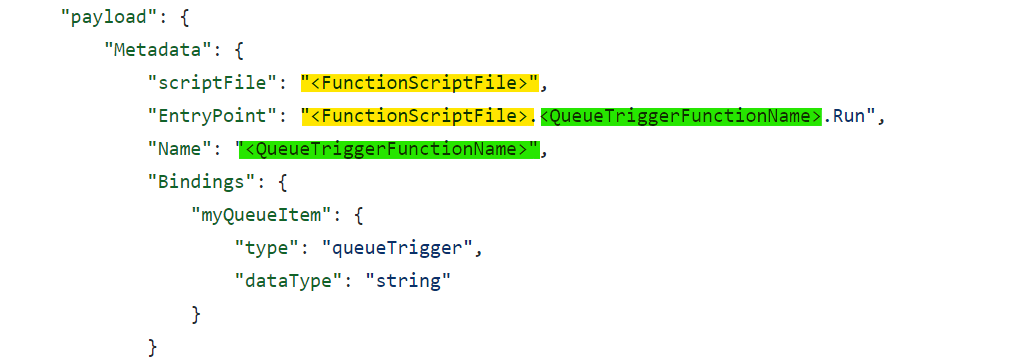
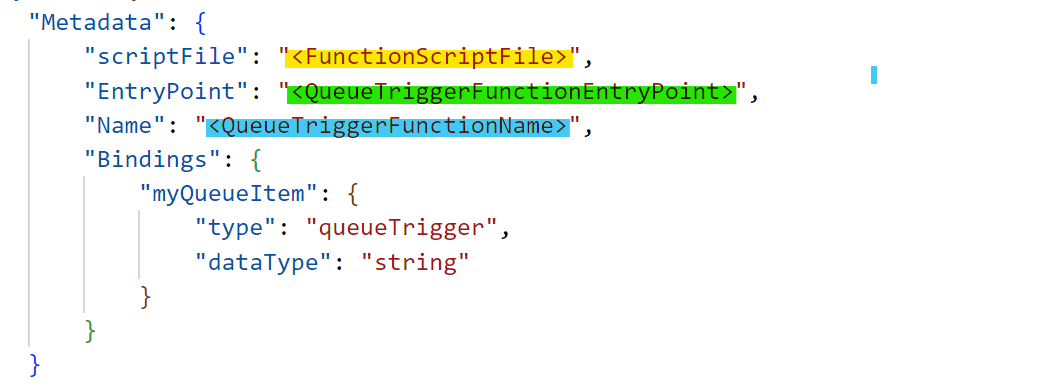
update README.md

diff --git a/tools/WorkerHarness/README.md b/tools/WorkerHarness/README.md
@@ -36,16 +36,26 @@ This folder contains:
 
 ## Update queueload.json
 - Go into the queueTrigger folder and open the file "queueload.json"
-- Replace `<FunctionScriptFile>` with the name of the function `scriptFile`. For instance, if a C# Function App has a name "TestApp", then replace `<FunctionScriptFile>` with "TestApp.dll".
-- Replace `<QueueTriggerFunctionName>` with the name of the function `name`. For instance, if a queue-trigger function has a name "QueueTrigger", then replace `<FunctionScriptFile>` with "QueueTrigger".
+- Replace `<FunctionScriptFile>` with the `scriptFile` of your function app. 
+    - C#: replace `<FunctionScriptFile>` with "TestApp.dll" if your function app has a name "TestApp". 
+    - Java: replace `<FunctionScriptFile>` with `path\to\function-folder\\target\\azure-functions\\artifactID\\appname-version.jar`
+    - Python: replace `<FunctionScriptFile>` with `functionname\__init__.py`
+    - Nodejs: replace `<FunctionScriptFile>` with `path\to\function-folder\functioname\index.js`
+- Replace `<QueueTriggerFunctionName>` with the name of the function. For instance, if a queue-trigger function has a name "QueueTrigger", then replace `<FunctionScriptFile>` with "QueueTrigger".
+- Replace `<QueueTriggerFunctionEntryPoint>` with the entry point of your function.
+    - C#: replace it with `TestApp.QueueTrigger.Run` if TestApp is the function app's name, and QueueTrigger is the function's name.
+    - Java: replace it with `com.function.QueueFunction.run` if com.function is the group ID, and QueueTrigger is the function's name.
+    - Python: replace it with `main`
+    - Nodejs: replace it with an empty string.
 
 ![functionload image]
 
 ## Update harness.settings.json
 - In the queueTrigger folder, open the file "harness.settings.json".
 - Replace `<languageExecutable>` with the absolute path of your language executable.
-- Replace `<workerExecutable>` with the absolute path of your worker executable.
-- Replace `<workerDirectory>` with the absolute path of your worker directory.
+- Replace `<workerExecutable>` with the absolute path of your worker.
+- Replace `<workerDirectory>` with the absolute path of your function app directory.
+- If you have any executable arguments or worker arguments, put them in the "languageExecutableArguments" list and the "workerArguments" list. They will be added as arguments to the worker process. The difference between the 2 lists is the order: the former is put before the worker path, the later is put after.
 
 ![harness.settings.json image]
 
@@ -75,8 +85,8 @@ The "queueTriggerScenario" tests the following sequence:
 ## Requires Inputs:
 - A scenario file. This file follows **Json** format and contains a list of actions to validate against a language worker. The [Scenario](#scenario) section explains the available actions and how to put them together to create a scenario.
 - A language executable. E.g. python.exe, dotnet.exe, node.exe, etc.
-- A worker executable. This is the worker executable file of your Functions App.
-- A worker directory: This is the folder that contains the worker executable, functions metadata file, and libraries/assemblies of your Functions App.
+- A worker path. This is the worker file of your Functions App.
+- A function app directory: This is the directory of your Function App.
 
 Put those requirements in a "harness.settings.json" file. For example, a .NET developer would construct the "harness.settings.json" file as followed:
 
@@ -84,14 +94,16 @@ Put those requirements in a "harness.settings.json" file. For example, a .NET de
 {
   "scenarioFile": "C:\\dev\\testings\\scenario_a.json",
   "languageExecutable": "C:\\Program Files\\dotnet\\dotnet.exe",
-  "workerExecutable": "C:\\FunctionApp1\\FunctionApp1\\bin\\Debug\\net6.0\\FunctionApp1.dll",
-  "workerDirectory": "C:\\FunctionApp1\\FunctionApp1\\bin\\Debug\\net6.0"
+  "workerPath": "C:\\FunctionApp1\\FunctionApp1\\bin\\Debug\\net6.0\\FunctionApp1.dll",
+  "functionAppDirectory": "C:\\FunctionApp1\\FunctionApp1\\bin\\Debug\\net6.0"
 }
 ```
 
 See sample "harness.settings.json" [here](samples/harness.settings.json/).
 
-## Optional Flags:
+## Optional:
+- Language executable arguments: a list of arguments that go before the worker path in a process's argument. Empty by default.
+- Worker arguments: a list of arguments that go after the worker path in a process's argument. Empty by default.
 - DisplayVerboseError: `true`/`false`. If true, the Worker Harness displays verbose error messages. The content of a verbose error message depends on the error type. See [Errors](#errors) for more info. The flag is set to `false` by default.
 
 ## How to Run
